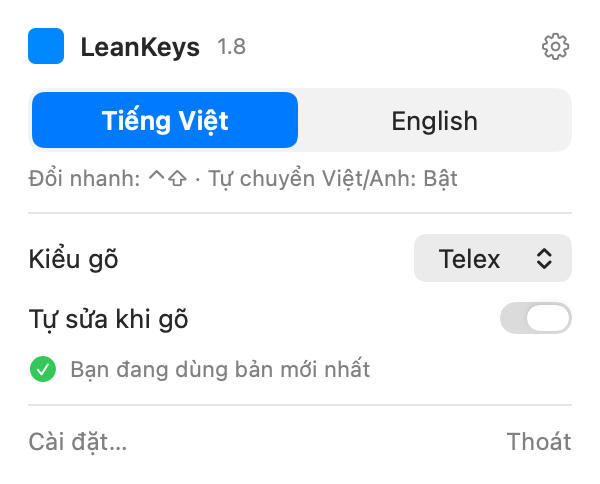
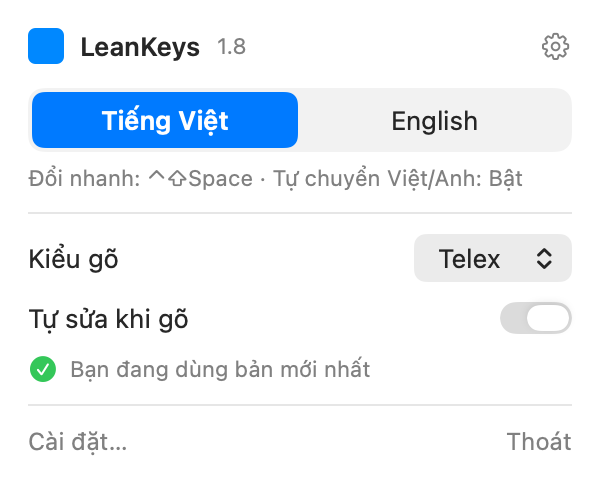
Popover: review fixes (version only when downloaded, sub-line wraps, readable selected text)

Changed region(s): [[0.3, 0.3409, 0.87, 0.4029]]

diff --git a/leankeys/LeanKeysKit/UI/StatusPopoverView.swift b/leankeys/LeanKeysKit/UI/StatusPopoverView.swift
@@ -137,6 +137,13 @@ public final class StatusPopoverModel: ObservableObject {
         return parts.isEmpty ? nil : parts.joined(separator: " · ")
     }
 
+    /// The version the update row names: only for an update already downloaded, and never the updater's "?"
+    /// placeholder or an empty value (it stores the version before the download ends).
+    public static func displayedNewVersion(_ raw: String, ready: Bool) -> String? {
+        guard ready, !raw.isEmpty, raw != "?" else { return nil }
+        return raw
+    }
+
     var subLine: String? { Self.subLine(shortcut: toggleShortcut, autoSwitch: snapshot.autoSwitchLine) }
 
     public func choose(autoFix: Bool) {
@@ -232,8 +239,8 @@ public struct StatusPopoverView: View {
                     Text(subLine)
                         .font(.system(size: 11))
                         .foregroundColor(Color(NSColor.secondaryLabelColor))
-                        .lineLimit(1)
-                        .truncationMode(.tail)
+                        .lineLimit(2)
+                        .fixedSize(horizontal: false, vertical: true)
                         .help(model.snapshot.autoSwitchHelp)
                 }
             }
@@ -355,7 +362,7 @@ struct LanguageSwitch: View {
         Button(action: action) {
             Text(title)
                 .font(.system(size: 13, weight: selected ? .semibold : .regular))
-                .foregroundColor(selected ? .white : Color(NSColor.labelColor))
+                .foregroundColor(selected ? Color(NSColor.alternateSelectedControlTextColor) : Color(NSColor.labelColor))
                 .frame(maxWidth: .infinity, minHeight: 28)
                 .background(RoundedRectangle(cornerRadius: 6).fill(selected ? Color.accentColor : Color.clear))
                 .contentShape(Rectangle())

diff --git a/leankeys/Tests/LeanKeysKitTests/StatusPopoverTests.swift b/leankeys/Tests/LeanKeysKitTests/StatusPopoverTests.swift
@@ -64,6 +64,15 @@ final class StatusPopoverTests: XCTestCase {
         XCTAssertNil(model.newVersion)
     }
 
+    /// The updater stores the version it is about to fetch before the download ends, and "?" when it lost it: the
+    /// popover names a version only for an update that is downloaded and named.
+    func testNewVersionShownOnlyWhenReadyAndKnown() {
+        XCTAssertEqual(StatusPopoverModel.displayedNewVersion("1.9", ready: true), "1.9")
+        XCTAssertNil(StatusPopoverModel.displayedNewVersion("1.9", ready: false), "still downloading")
+        XCTAssertNil(StatusPopoverModel.displayedNewVersion("?", ready: true))
+        XCTAssertNil(StatusPopoverModel.displayedNewVersion("", ready: true))
+    }
+
     func testEscClosesThePopover() {
         XCTAssertTrue(StatusPopoverController.closesOnKey(53))
         XCTAssertFalse(StatusPopoverController.closesOnKey(36), "Return does not close")

diff --git a/platforms/macos/MenuBar.swift b/platforms/macos/MenuBar.swift
@@ -449,7 +449,10 @@ class MenuBarController: NSObject, NSWindowDelegate {
             toggleShortcut: { AppState.shared.toggleShortcut.displayParts.joined() },
             autoFix: { AppState.shared.autoFix },
             setAutoFix: { AppState.shared.autoFix = $0 },
-            newVersion: { UpdateManager.shared.pendingVersion.isEmpty ? nil : UpdateManager.shared.pendingVersion }
+            newVersion: {
+                StatusPopoverModel.displayedNewVersion(UpdateManager.shared.pendingVersion,
+                                                       ready: UpdateManager.shared.isReadyToInstall)
+            }
         ))
         // Check, download progress and install show while the popover is open (spec §16).
         NotificationCenter.default.publisher(for: .updateStateChanged)

diff --git a/leankeys/Tests/LeanKeysKitTests/UISnapshotTests.swift b/leankeys/Tests/LeanKeysKitTests/UISnapshotTests.swift
@@ -169,7 +169,7 @@ final class UISnapshotTests: XCTestCase {
             suggestionCount: { suggestions },
             updatePhase: update.map { phase in { phase } },
             version: { "1.8" },
-            toggleShortcut: { "⌃⇧" },
+            toggleShortcut: { "⌃⇧Space" },
             newVersion: { "1.9" },
             appIcon: { logo() }
         )
